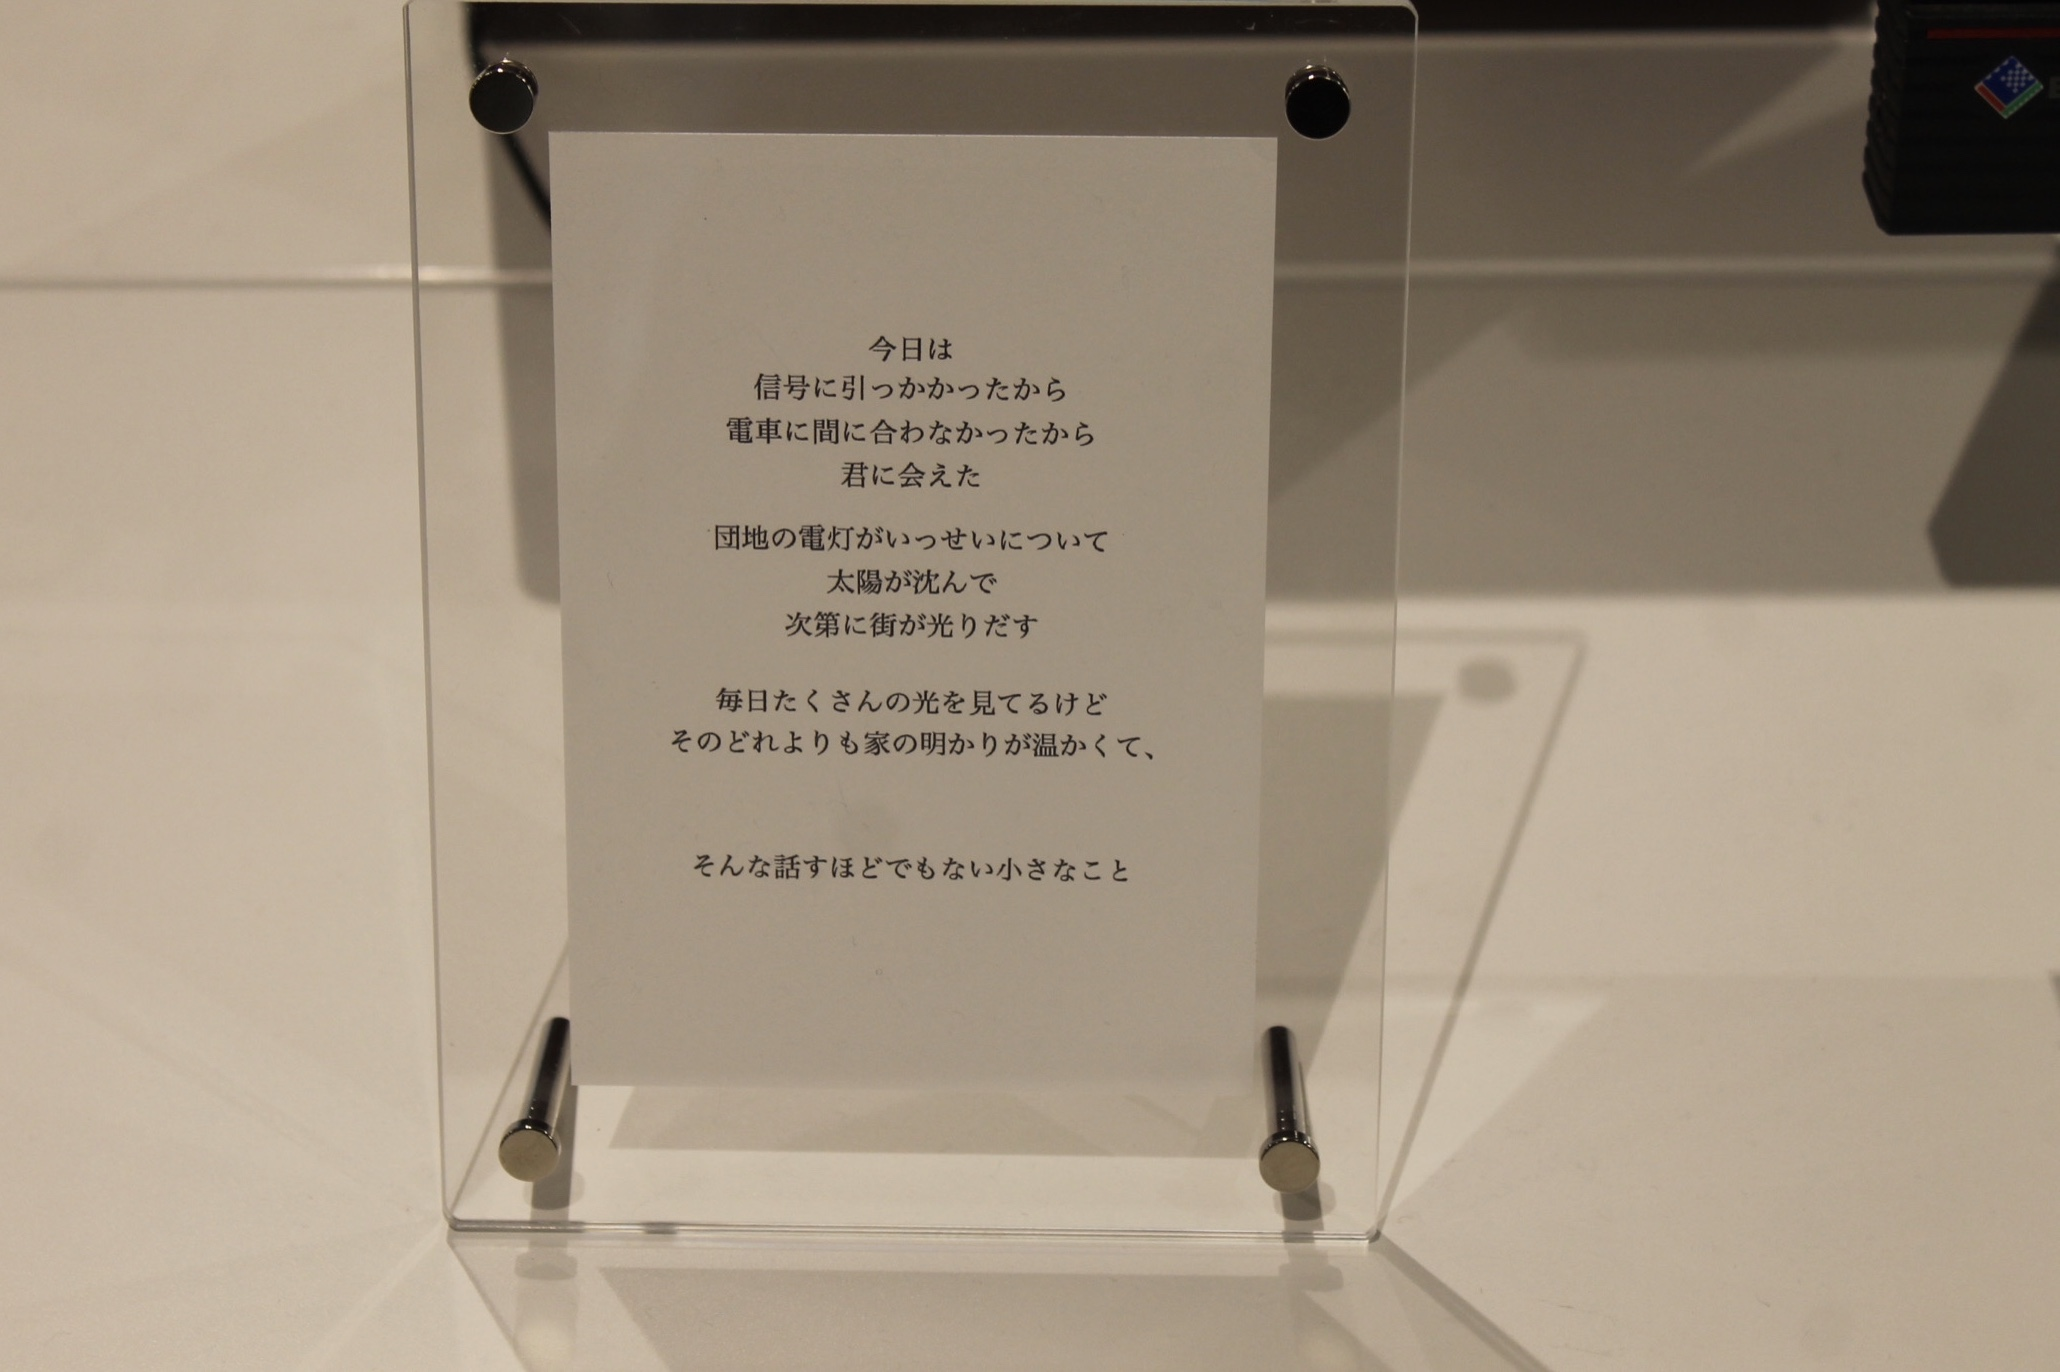
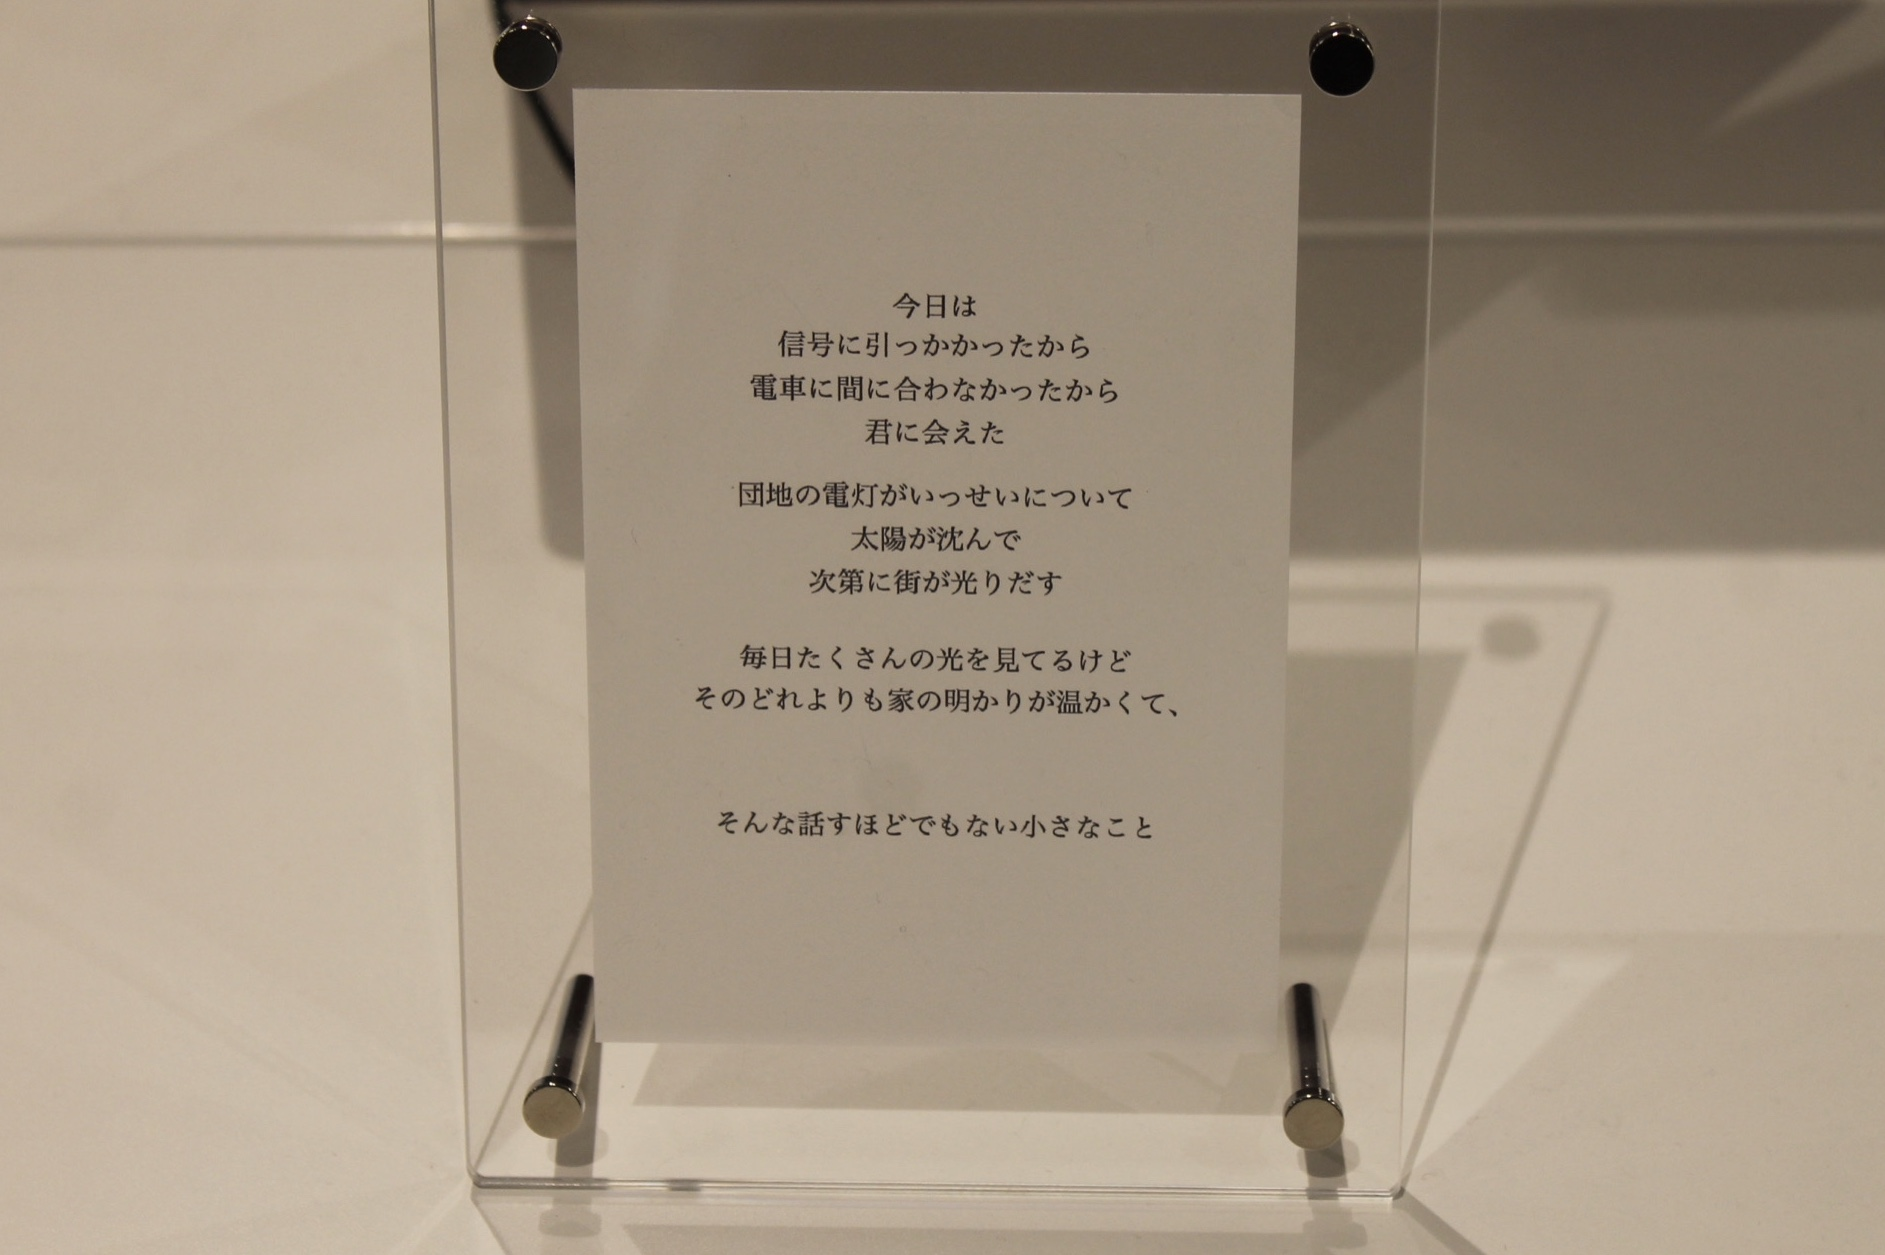
add

diff --git a/swnw.html b/swnw.html
@@ -96,9 +96,10 @@
 <br>20191211 ソフトウェア・ネットワーク演習Ⅱ
 <details>
     <summary></summary>
-<br>p5.jsで暗号を簡単に作ってくれるツールを作りました。
+p5.jsで暗号を簡単に作ってくれるツールを作りました。
 <br>文学の授業でローマ字日記の回があり、「わざわざ読みにくくするのもまた一興」
 <br>みたいな話になってたので、そこから紆余曲折し暗号制作ツールになりました。
+<br>どうやって読むかは秘密です。暗号なので！！！
 <details>
   <summary>最終これ(長い)</summary>
   やる気はあったものの、結局知識やら技術が追いつかず先生方にたくさん手伝ってもらいました。
@@ -119,6 +120,18 @@
     <br>パンダのデータを作ってくれたのは丹治くん、データ一発で作ってサイズもぴったりで彼はすごい！！！
     <br>それにしてもMESHすげー
   </details>
+<br><br><br><br>
+
+　<img src="./assets/images/tenrankai.jpg"width="600">
+  <br>「話すほどでもないんだけど、
+  <br>20200115　プランニング表現演習Ⅱ・プレゼンテーション演習Ⅱ
+  <details>
+      <summary></summary>
+  <img src="./assets/images/tenrankai2.jpg"width="500">
+  <br>クロステックデザインコース1回生の合同展覧会で展示した作品です。
+  <br>映像 6分47秒
+  </details>
+
 
 </main>
 <footer>
